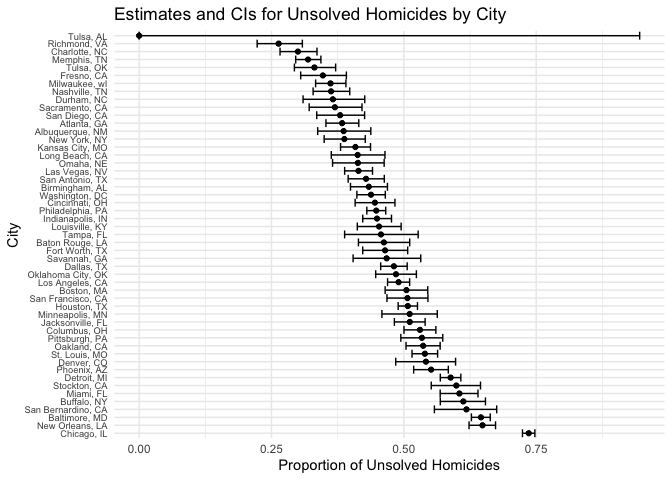
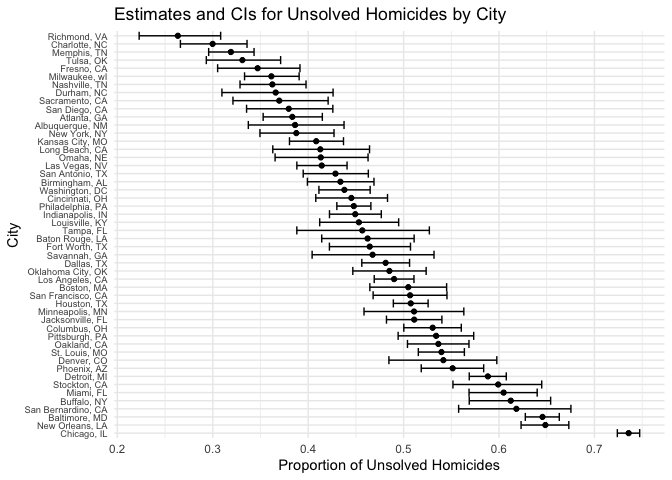
Revised in P3 plot

diff --git a/p8105_hw5_tc3326.md b/p8105_hw5_tc3326.md
@@ -35,16 +35,16 @@ simulation_results_mu_0
     ## # A tibble: 5,000 × 3
     ##     iter sample_mean p_value
     ##    <int>       <dbl>   <dbl>
-    ##  1     1      -1.05   0.277 
-    ##  2     2       0.638  0.425 
-    ##  3     3      -0.778  0.345 
-    ##  4     4       1.49   0.0888
-    ##  5     5      -0.865  0.407 
-    ##  6     6       0.356  0.705 
-    ##  7     7       0.247  0.706 
-    ##  8     8       1.08   0.164 
-    ##  9     9      -0.351  0.697 
-    ## 10    10       0.142  0.851 
+    ##  1     1     -0.721    0.399
+    ##  2     2     -0.291    0.763
+    ##  3     3      0.156    0.883
+    ##  4     4     -1.03     0.272
+    ##  5     5     -0.576    0.602
+    ##  6     6      0.0188   0.983
+    ##  7     7      0.806    0.414
+    ##  8     8      0.255    0.778
+    ##  9     9     -0.311    0.751
+    ## 10    10     -0.204    0.820
     ## # ℹ 4,990 more rows
 
 ``` r
@@ -63,16 +63,16 @@ sim_res_multiple_means
     ## # A tibble: 30,000 × 4
     ##    true_mean  iter simulation_output_sample_mean simulation_output_p_value
     ##        <dbl> <int>                         <dbl>                     <dbl>
-    ##  1         1     1                         0.683                    0.448 
-    ##  2         1     2                         0.225                    0.789 
-    ##  3         1     3                         1.50                     0.143 
-    ##  4         1     4                         1.64                     0.0792
-    ##  5         1     5                         1.77                     0.0290
-    ##  6         1     6                         1.67                     0.0890
-    ##  7         1     7                         0.839                    0.384 
-    ##  8         1     8                        -0.281                    0.775 
-    ##  9         1     9                         1.20                     0.143 
-    ## 10         1    10                         1.85                     0.0603
+    ##  1         1     1                         0.527                     0.460
+    ##  2         1     2                         0.864                     0.340
+    ##  3         1     3                        -0.649                     0.514
+    ##  4         1     4                         1.21                      0.152
+    ##  5         1     5                         1.02                      0.260
+    ##  6         1     6                         0.769                     0.391
+    ##  7         1     7                         1.36                      0.114
+    ##  8         1     8                         0.496                     0.571
+    ##  9         1     9                         0.609                     0.568
+    ## 10         1    10                         0.670                     0.483
     ## # ℹ 29,990 more rows
 
 ### Plot: Power of Test vs. True Mean
@@ -259,6 +259,10 @@ cat("95% Confidence Interval: [", conf_int_lower, ", ", conf_int_upper, "]\n")
 ### Perform prop.test for Each City
 
 ``` r
+homicides <- homicides %>%
+  mutate(city_state = paste(city, state, sep = ", ")) %>%
+  filter(city_state != "Tulsa, AL") 
+
 allcity_summary <- homicides %>%
   group_by(city_state) %>%
   summarize(
@@ -274,11 +278,6 @@ allcity_summary <- homicides %>%
   select(city_state, total_homicides, unsolved_homicides, estimate, conf.low, conf.high)
 ```
 
-    ## Warning: There was 1 warning in `mutate()`.
-    ## ℹ In argument: `prop_test_result = map2(...)`.
-    ## Caused by warning in `prop.test()`:
-    ## ! Chi-squared approximation may be incorrect
-
 ### Plot that shows the estimates and CIs for each city
 
 ``` r
@@ -289,7 +288,7 @@ allcity_summary <- allcity_summary %>%
 ggplot(allcity_summary, aes(x = city_state, y = estimate)) +
   geom_point() +
   geom_errorbar(aes(ymin = conf.low, ymax = conf.high), width = 1) +
-  coord_flip() +  # Flip coordinates for better readability
+  coord_flip() +  
   labs(
     title = "Estimates and CIs for Unsolved Homicides by City",
     x = "City",
